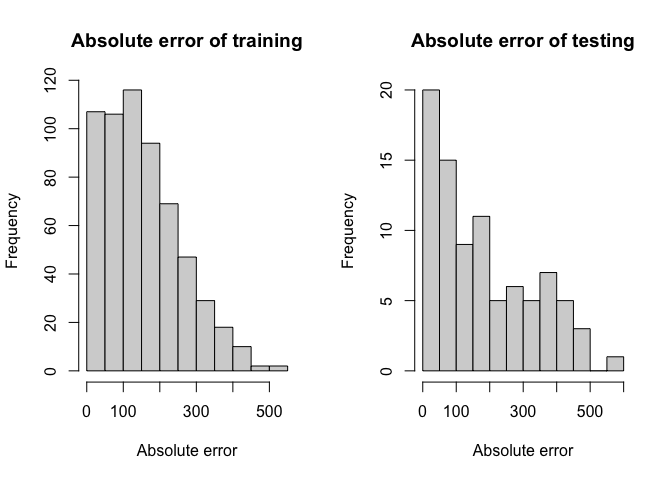
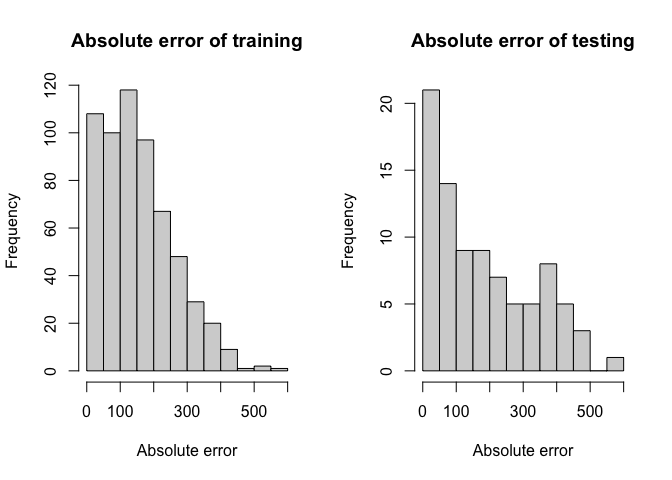
Update files

diff --git a/README.md b/README.md
@@ -49,11 +49,11 @@ plot_histogram(data, 12)
     #>  [1]   0  50 100 150 200 250 300 350 400 450 500 550 600
     #> 
     #> $counts
-    #>  [1] 20 15  9 11  5  6  5  7  5  3  0  1
+    #>  [1] 21 14  9  9  7  5  5  8  5  3  0  1
     #> 
     #> $density
-    #>  [1] 0.0045977011 0.0034482759 0.0020689655 0.0025287356 0.0011494253
-    #>  [6] 0.0013793103 0.0011494253 0.0016091954 0.0011494253 0.0006896552
+    #>  [1] 0.0048275862 0.0032183908 0.0020689655 0.0020689655 0.0016091954
+    #>  [6] 0.0011494253 0.0011494253 0.0018390805 0.0011494253 0.0006896552
     #> [11] 0.0000000000 0.0002298851
     #> 
     #> $mids
@@ -67,35 +67,52 @@ plot_histogram(data, 12)
     #> 
     #> attr(,"class")
     #> [1] "histogram"
-
-    data("adae")
-    dataset = preprocessing_rash(adsl, biomark, adae, 800)
-    data = random_forest_rash(dataset)
-    plot_histogram(data, 12)
+    plot_scatter_residual(data)
 
 <img src="man/figures/README-example-2.png" width="100%" />
 
-    #> $breaks
-    #>  [1] 0.0 0.1 0.2 0.3 0.4 0.5 0.6 0.7 0.8 0.9 1.0
-    #> 
-    #> $counts
-    #>  [1] 45 15  5 14 16 19  7  4  4  2
-    #> 
-    #> $density
-    #>  [1] 3.4351145 1.1450382 0.3816794 1.0687023 1.2213740 1.4503817 0.5343511
-    #>  [8] 0.3053435 0.3053435 0.1526718
-    #> 
-    #> $mids
-    #>  [1] 0.05 0.15 0.25 0.35 0.45 0.55 0.65 0.75 0.85 0.95
-    #> 
-    #> $xname
-    #> [1] "abs(pa_test$pred - pa_test$actual)"
-    #> 
-    #> $equidist
-    #> [1] TRUE
-    #> 
-    #> attr(,"class")
-    #> [1] "histogram"
+``` r
+data("adae")
+dataset = preprocessing_rash(adsl, biomark, adae, 800)
+random_forest_rash(dataset)
+#> $pa_train
+#> # A tibble: 800 × 2
+#>         pred actual
+#>    <dbl[1d]>  <int>
+#>  1    0.0570      0
+#>  2    0.356       0
+#>  3    0.0240      0
+#>  4    0.0138      0
+#>  5    0.0532      0
+#>  6    0.564       1
+#>  7    0.0746      0
+#>  8    0.727       1
+#>  9    0.0647      0
+#> 10    0.653       1
+#> # ℹ 790 more rows
+#> 
+#> $pa_test
+#> # A tibble: 131 × 2
+#>         pred actual
+#>    <dbl[1d]>  <int>
+#>  1    0.0920      0
+#>  2    0.336       0
+#>  3    0.163       0
+#>  4    0.0485      0
+#>  5    0.643       1
+#>  6    0.0181      0
+#>  7    0.500       1
+#>  8    0.654       1
+#>  9    0.0855      0
+#> 10    0.0235      0
+#> # ℹ 121 more rows
+#> 
+#> $accuracy_train
+#> [1] 0.7915797
+#> 
+#> $accuracy_test
+#> [1] 0.6869617
+```
 
 ## Test Coverage
 
